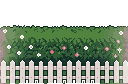
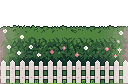
Pond: water matches its picture, swimmers keep off the rim; no sky under the reeds and hedge
Claude-Session: https://claude.ai/code/session_01Auu39P7VHXG96doXegbhz1

Changed region(s): [[0.0625, 0.9524, 0.7812, 1.0]]

diff --git a/src/js/20-pokemon-home.js b/src/js/20-pokemon-home.js
@@ -295,7 +295,7 @@ function paintRoom(c, r, ts, pixel, tod, wTiles, head = 0){
   if (r.floor === "tile") { for (let y = 0; y < HM.D*2; y++) for (let x = 0; x < W/ts*2; x++) if ((x + y) % 2) { c.fillStyle = "#c9d9cf"; c.fillRect(R(X0 + x*ts/2), R(fy + y*ts*SQ/2), R(ts/2) + 1, R(ts*SQ/2) + 1); } }
   if (r.floor === "marble") { for (let y = 0; y < HM.D; y++) for (let x = 0; x < W/ts; x++) { c.fillStyle = (x + y) % 2 ? "#d9d4e8" : "#f2f0f8"; c.fillRect(R(X0 + x*ts), R(fy + y*ts*SQ), R(ts) + 1, R(ts*SQ) + 1); } }
   if (r.floor === "grass") { const Rn = rng(r.x0*7 + 3); c.fillStyle = "#6ab64c"; for (let i = 0; i < W/ts*6; i++) { const x = X0 + Rn()*W, y = fy + Rn()*floorH; c.fillRect(R(x), R(y), Math.max(1, R(ts*.06)), Math.max(1, R(ts*.18))); } }
-  if (r.pond) { const cx = X0 + W/2, cy = fy + floorH*.55; c.fillStyle = "#3f8f5a"; c.beginPath(); c.ellipse(R(cx), R(cy), R(W*.32 + ts*.15), R(floorH*.3 + ts*.12), 0, 0, 7); c.fill(); c.fillStyle = "#4aa8e0"; c.beginPath(); c.ellipse(R(cx), R(cy), R(W*.32), R(floorH*.3), 0, 0, 7); c.fill(); c.fillStyle = "rgba(255,255,255,.35)"; for (let i = 0; i < 6; i++) c.fillRect(R(cx - W*.2 + i*W*.07), R(cy - floorH*.1 + (i % 3)*floorH*.08), R(ts*.4), Math.max(1, R(ts*.04))); }
+  if (r.pond) { const cx = X0 + W/2, cy = fy + POND.cy*ts*SQ, rx = POND.rx*ts, ry = POND.ry*ts*SQ; c.fillStyle = "#3f8f5a"; c.beginPath(); c.ellipse(R(cx), R(cy), R(rx + ts*.45), R(ry + ts*.3), 0, 0, 7); c.fill(); c.fillStyle = "#4aa8e0"; c.beginPath(); c.ellipse(R(cx), R(cy), R(rx), R(ry), 0, 0, 7); c.fill(); c.fillStyle = "rgba(255,255,255,.35)"; for (let i = 0; i < 6; i++) c.fillRect(R(cx - W*.2 + i*W*.07), R(cy - floorH*.1 + (i % 3)*floorH*.08), R(ts*.4), Math.max(1, R(ts*.04))); }
   // back-wall shadow on the floor and the edge of the room
   if (!pixel) { const g = c.createLinearGradient(0, fy, 0, fy + ts*.6); g.addColorStop(0, "rgba(0,0,0,.18)"); g.addColorStop(1, "rgba(0,0,0,0)"); c.fillStyle = g; c.fillRect(R(X0), R(fy), R(W), R(ts*.6)); }
 }
@@ -470,7 +470,10 @@ function houseThumb(x, H, pixel){
   if (img) { const k = 96/img.height; x.imageSmoothingEnabled = true; for (let X = 0; X < 160; X += img.width*k) x.drawImage(img, X, 0, img.width*k, 96); return; }   // repeated along, like the house
   x.fillStyle = "#bfe3ff"; x.fillRect(0, 0, 160, 96); facadeShapes(x, H, 8, 152, 16, 92, 13, pixel, 0);
 }
-const inPond = (r, x, y) => r.pond && (((x - (r.x0 + r.w/2))/(r.w*.32))**2 + ((y - HM.D*.55)/(HM.D*.3))**2) < 1;
+// the pond's water (as drawn: the 2D picture's water, and the 3D ellipse), in tiles from the room's middle; k scales it:
+// swimmers head for the deep middle (k < 1), and furniture keeps off the stones round it (k > 1)
+const POND = {rx:3, ry:1.8, cy:HM.D*.55};
+const inPond = (r, x, y, k = 1) => r.pond && (((x - (r.x0 + r.w/2))/(POND.rx*k))**2 + ((y - POND.cy)/(POND.ry*k))**2) < 1;
 
 // ---- state of the running Home ----
 const HS = {camY:0, ro:null, cv:null, ctx:null, low:null, lctx:null, raf:0, ts:0, V:null, k:1, cam:0, camT:0, world:null, rooms:[], W:0, me:null, mons:[], keys:new Set(), edit:false, place:null, sel:null, ghost:null, msg:"", msgT:0, last:0, layerKey:"", pointer:null, followers:[], undo:[], hold:null, joy:null, photo:false, pcam:0, pdrag:null, weather:"sun", introPending:true, intro:null, evKey:"", evT:0, drag:null, stepT:0, crackT:0, rows:[], doors:[], pass:null, vy:null, camY0:0, bandH:0};
@@ -507,7 +510,7 @@ function randomSpot(swim, near){
   for (let i = 0; i < 40; i++) {
     const x = near ? near.x + (Math.random() - .5)*5 : .5 + Math.random()*(HS.W - 1), y = .6 + Math.random()*(HM.D - 1.1);
     if (near && !sameRow(x, near.x)) continue;   // near: in the same row
-    if (swim === "only") { if (inPond(roomAt(x), x, y)) return {x, y}; continue; }
+    if (swim === "only") { if (inPond(roomAt(x), x, y, .8)) return {x, y}; continue; }   // out in the water, not by the edge
     if (!blocked(x, y, swim)) return {x, y};
   }
   return null;
@@ -976,7 +979,7 @@ function homeUpdate(dt, now){
         else { const mx = nx - m.x; m.x = nx; m.y = ny; if (Math.abs(mx) > sp*.05) m.dir = Math.sign(mx); }   // always faces the way it's really moving (only straight up/down keeps its facing)
       }
     }
-    m.swim = !isFlier(m) && !m.z && inPond(roomAt(m.x), m.x, m.y);
+    m.swim = !isFlier(m) && !m.z && inPond(roomAt(m.x), m.x, m.y, .85);   // only past the shallows: at the edge it wades
   }
   if (HS.msgT && now > HS.msgT) { HS.msgT = 0; const el = $("hmMsg"); if (el) el.hidden = true; }
 }
@@ -1141,7 +1144,7 @@ function fits(it, x, y, ignore){
   for (const d of dividers()) if (x < d.x + .5 && x + it.w > d.x - .5) return false;   // keep walls and doorways clear
   for (const R of HS.rows) if (x < R.x0 && x + it.w > R.x0) return false;   // a piece stays in one row
   if (!isFloorItem(it)) for (const d of HS.doors) for (const e of [d.n, d.s]) if (x < e.x + .8 && x + it.w > e.x - .8 && y < e.y + .9 && y + it.d > e.y - .9) return false;   // and out of the doors' way
-  for (const r of HS.rooms) if (r.pond) for (let dx = 0; dx <= it.w; dx += .5) for (let dy = 0; dy <= it.d; dy += .5) if (inPond(r, x + dx, y + dy)) return false;
+  for (const r of HS.rooms) if (r.pond) for (let dx = 0; dx <= it.w; dx += .5) for (let dy = 0; dy <= it.d; dy += .5) if (inPond(r, x + dx, y + dy, 1.2)) return false;
   const floor = isFloorItem(it);
   for (const p of placedItems()) { if (p === ignore || p.s || isFloorItem(p.it) !== floor) continue; if (x < p.x + p.it.w && x + it.w > p.x && y < p.y + p.it.d && y + it.d > p.y) return false; }
   return true;

diff --git a/art-src/process.py b/art-src/process.py
@@ -312,6 +312,16 @@ for n in ["back_garden", "back_pond", "back_yard"]:
     im = rgba(R / f"{n}.png")
     W = im.width
     im = flood_clear(im, [(x, 0) for x in range(W)], 40)   # the sky above the hedge/reeds is see-through
+    # ...but not below it: the reeds and hedge stand in grass, so the bottom rows get the lawn behind them (the sky
+    # showed through as a dark band at night where the cut-out faded out)
+    grass, H = rgba(R / "floor_grass.png"), im.height
+    px = im.load()
+    top = next(y for y in range(H - 1, -1, -1) if all(px[x, y][3] == 255 for x in range(W)) or y < H - 24)
+    ground = Image.new("RGBA", im.size)
+    for y in range(top, H, grass.height):
+        for x in range(0, W, grass.width):
+            ground.paste(grass, (x, y))
+    im = Image.alpha_composite(ground, im)
     save(im, f"room/{n}.png")
 
 save(cutout(rgba(R / "pond.png")), "room/pond.png")

diff --git a/docs/CHANGELOG.md b/docs/CHANGELOG.md
@@ -10,6 +10,9 @@
   buttons) move between the garden, the house and the yard. Your furniture stays exactly where it was.
 - **Lighting:** dust drifts in the sunbeams from the windows, and at night the TV and arcade flicker while the stove
   and crystal ball glow.
+- **The pond fits its picture:** Pokémon only swim where the water is drawn, swim out in the open water rather than
+  at the edge (wading at the rim), and furniture keeps off the stones. The reeds and garden hedge no longer show a
+  strip of sky under them.
 - **Stacking:** small pieces (plants, globes, trophies, lamps…) stand on tables, desks and counters, and move with them.
 
 ## 🐟 Pokémon that act like themselves
